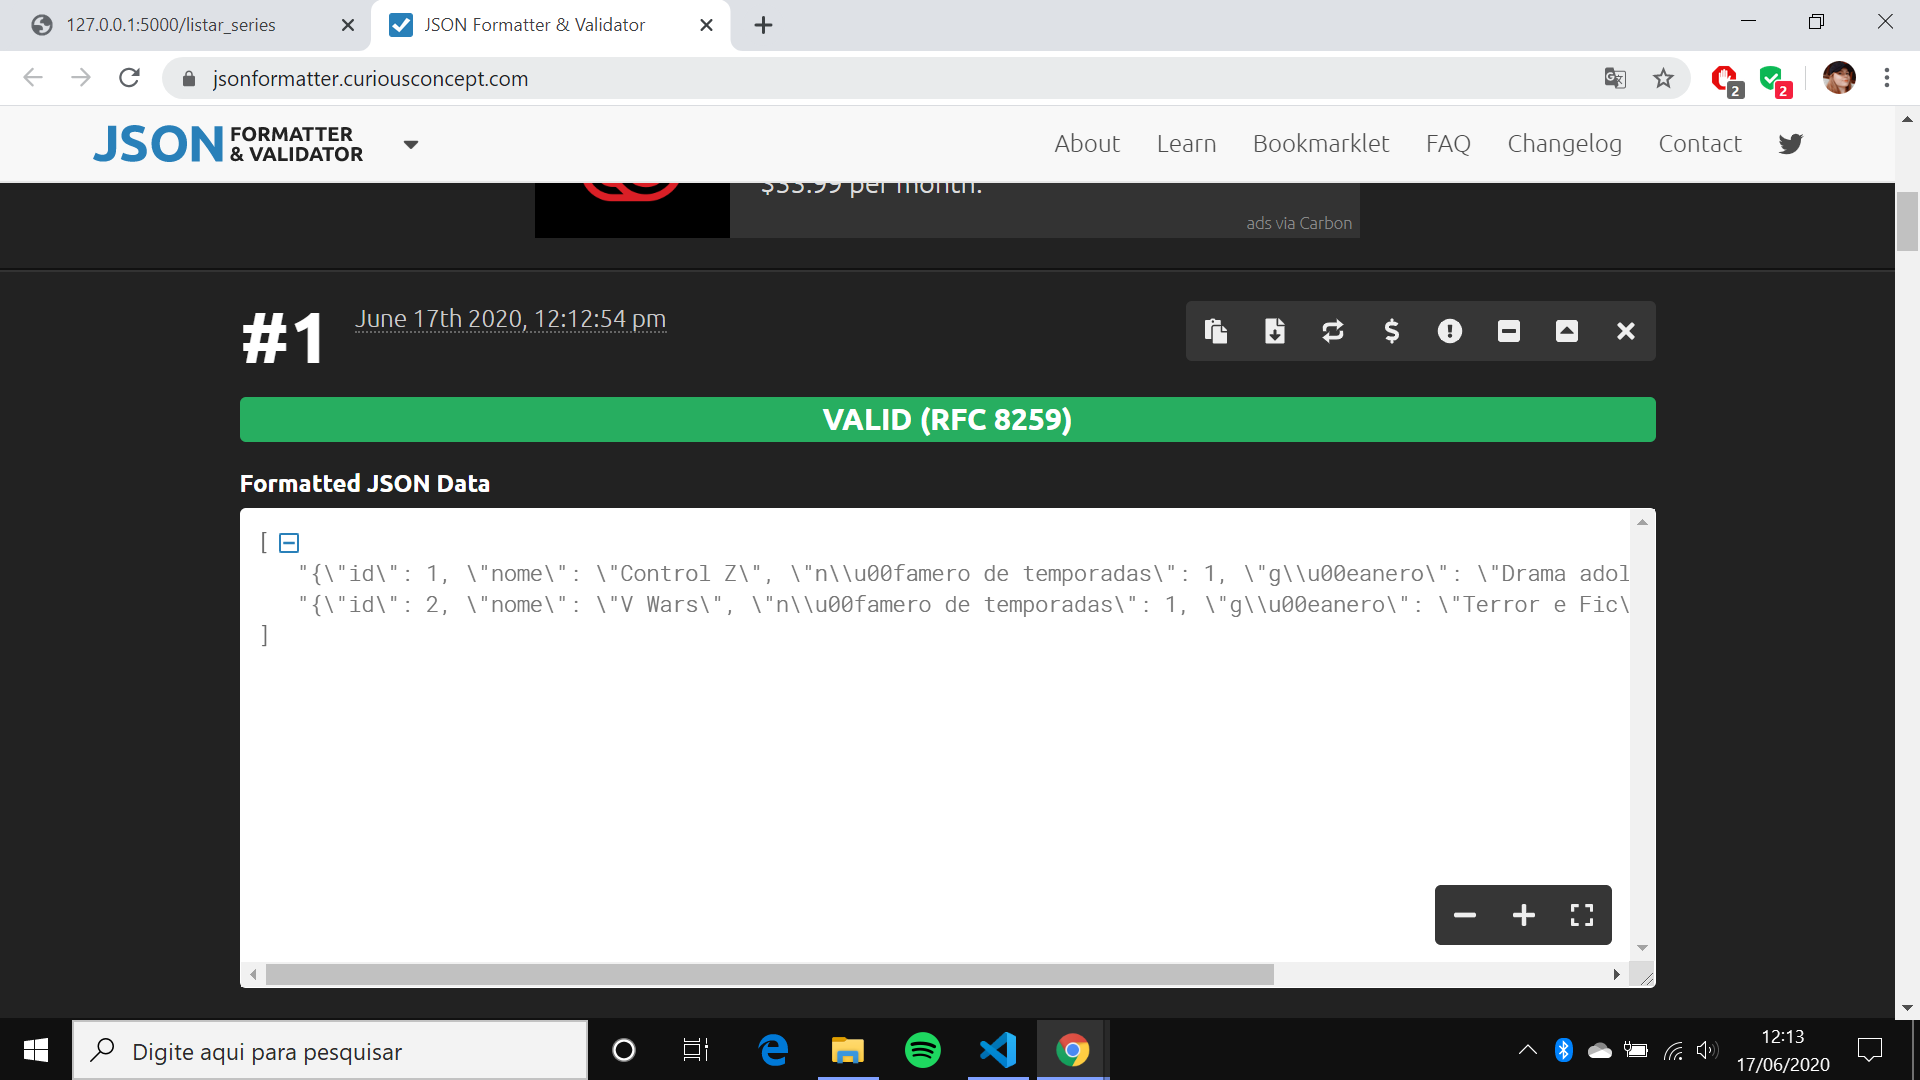
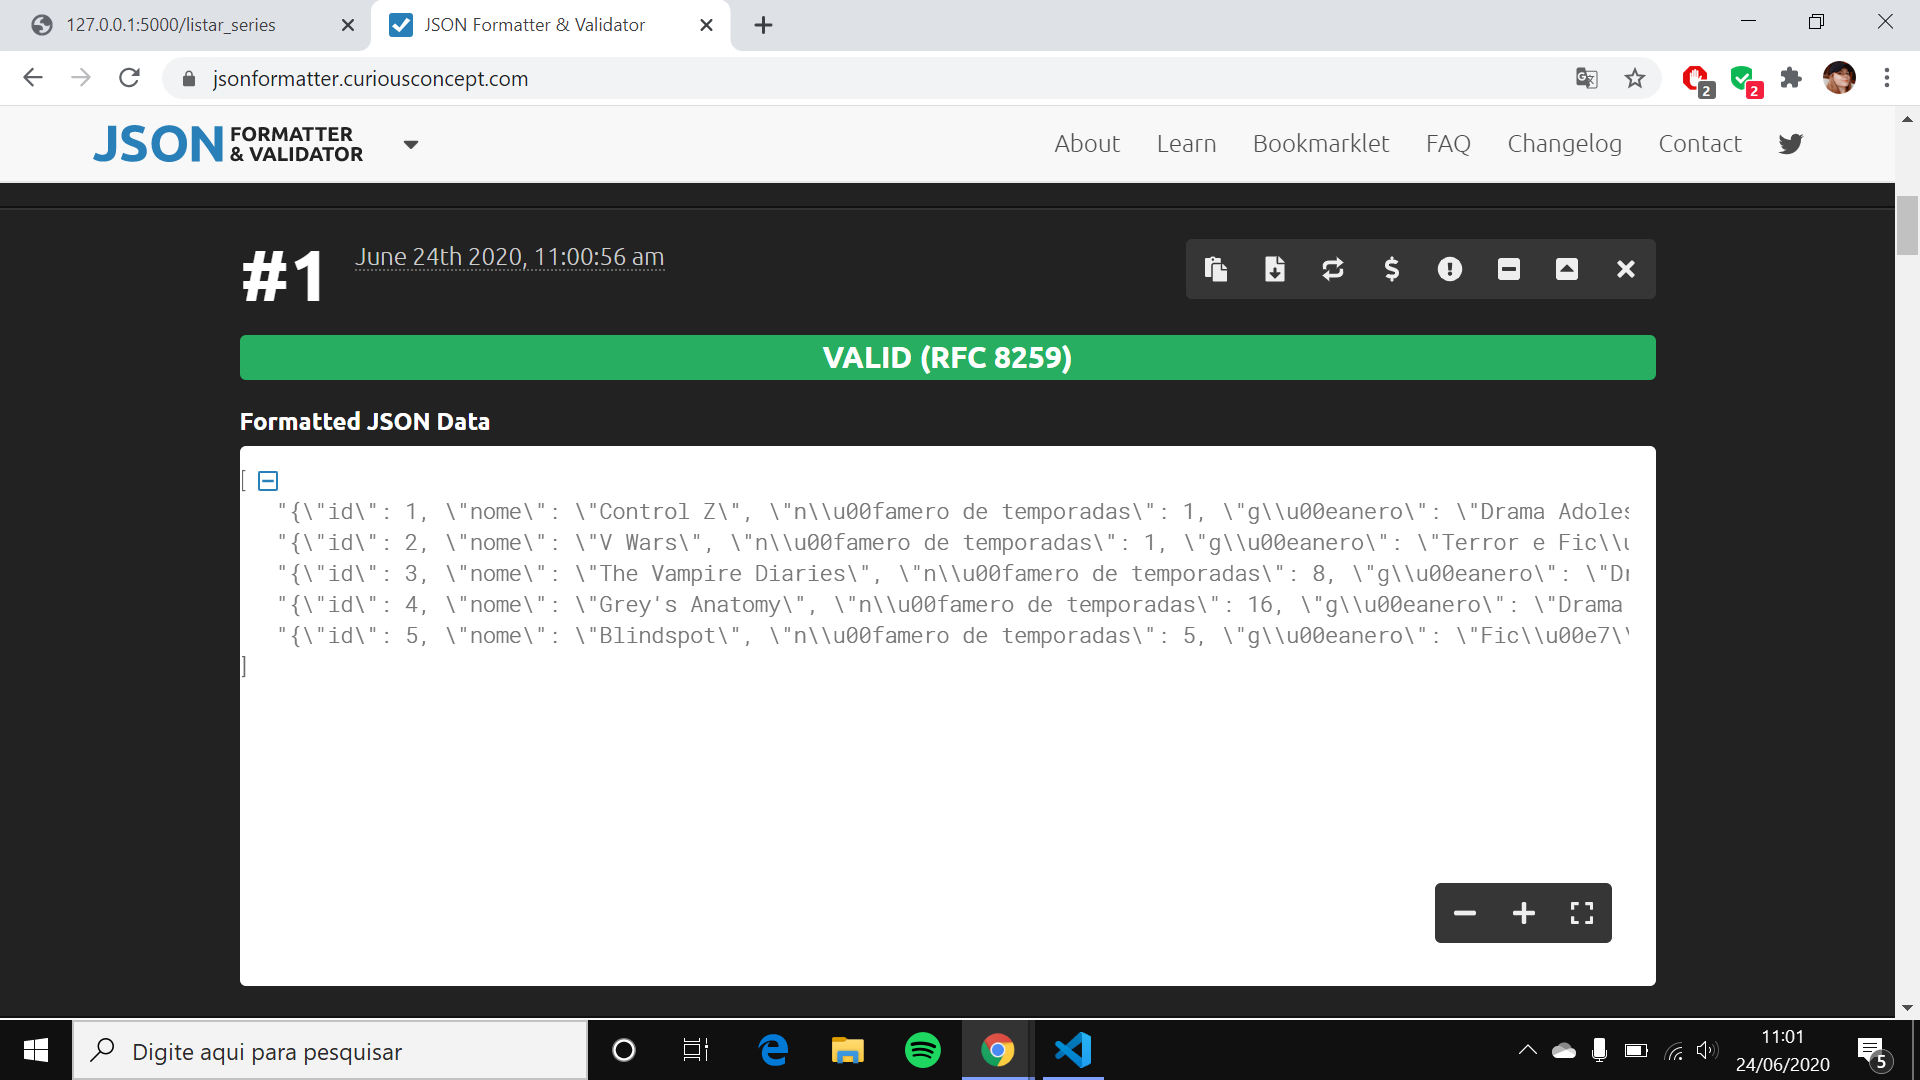
cinco instâncias adicionadas

diff --git a/gerenciador de séries/back_end/teste.py b/gerenciador de séries/back_end/teste.py
@@ -9,13 +9,30 @@ if __name__ == "__main__":
     db.create_all()
 
     s1 = Serie(nome = "Control Z", temporada = 1, 
-    genero = "Drama adolescente")
+    genero = "Drama Adolescente", status = "Em produção", 
+    classificacao_indicativa = 18)
     s2 = Serie(nome = "V Wars", temporada = 1, 
-    genero = "Terror e Ficção Científica")        
-    
+    genero = "Terror e Ficção Científica", status = "Cancelada",
+    classificacao_indicativa = 16)
+    s3 = Serie(nome = "The Vampire Diaries", temporada = 8, 
+    genero = "Drama, Fantasia e Romance", status = "Encerrada",
+    classificacao_indicativa = 14)
+    s4 = Serie(nome = "Grey's Anatomy", temporada = 16, 
+    genero = "Drama Médico", status = "Em produção",
+    classificacao_indicativa = 14)
+    s5 = Serie(nome = "Blindspot", temporada = 5, 
+    genero = "Ficção Policial", status = "Encerrada",
+    classificacao_indicativa = 14)  
+
     db.session.add(s1)
     db.session.add(s2)
+    db.session.add(s3)
+    db.session.add(s4)
+    db.session.add(s5)
     db.session.commit()
     
     print(s1.json())
     print(s2.json())
+    print(s3.json())
+    print(s4.json())
+    print(s5.json())

diff --git a/gerenciador de séries/back_end/classe.py b/gerenciador de séries/back_end/classe.py
@@ -6,15 +6,20 @@ class Serie(db.Model):
     nome = db.Column(db.String(254))
     temporada = db.Column(db.Integer)
     genero = db.Column(db.String(254))
+    status = db.Column(db.String(254))
+    classificacao_indicativa = db.Column(db.Integer)
 
     def __str__(self):
-        return str(self.id)+") "+ self.nome + ", " +\
-            str(self.temporada) + ", " + self.genero
+        return str(self.id)+") " + self.nome + ", " +\
+            str(self.temporada) + ", " + self.genero + ", " +\
+            self.status + ", " + str(self.classificacao_indicativa)
 
     def json(self):
         return json.dumps({
             "id": self.id,
             "nome": self.nome,
             "número de temporadas": self.temporada,
-            "gênero": self.genero
+            "gênero": self.genero,
+            "status": self.status,
+            "classificação indicativa": self.classificacao_indicativa
         })
